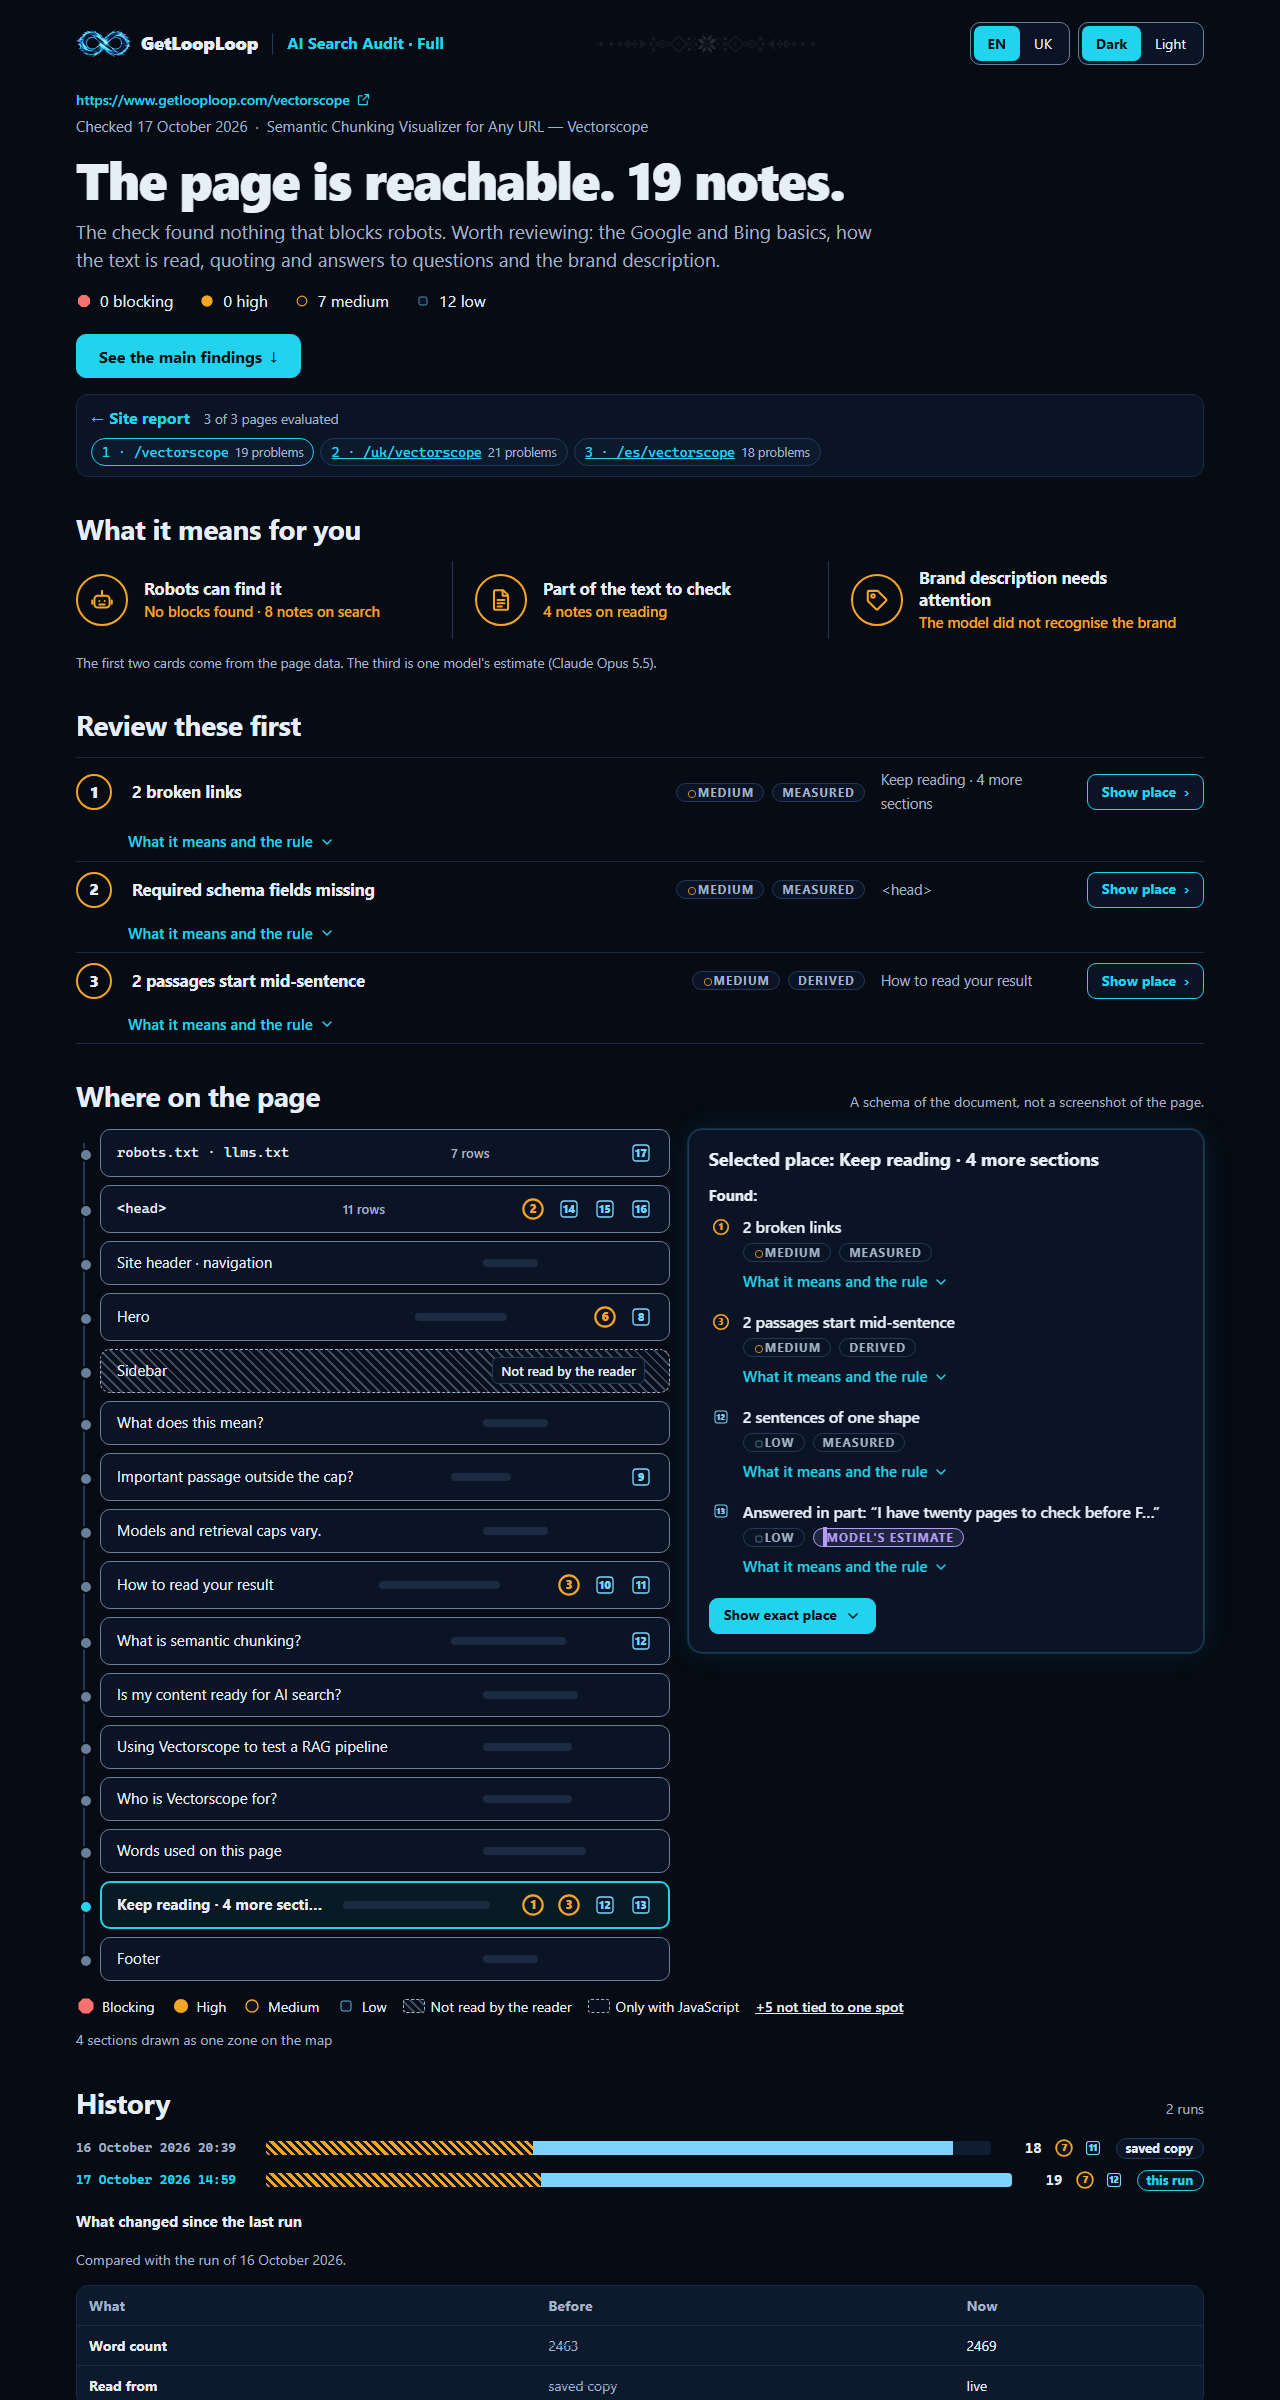
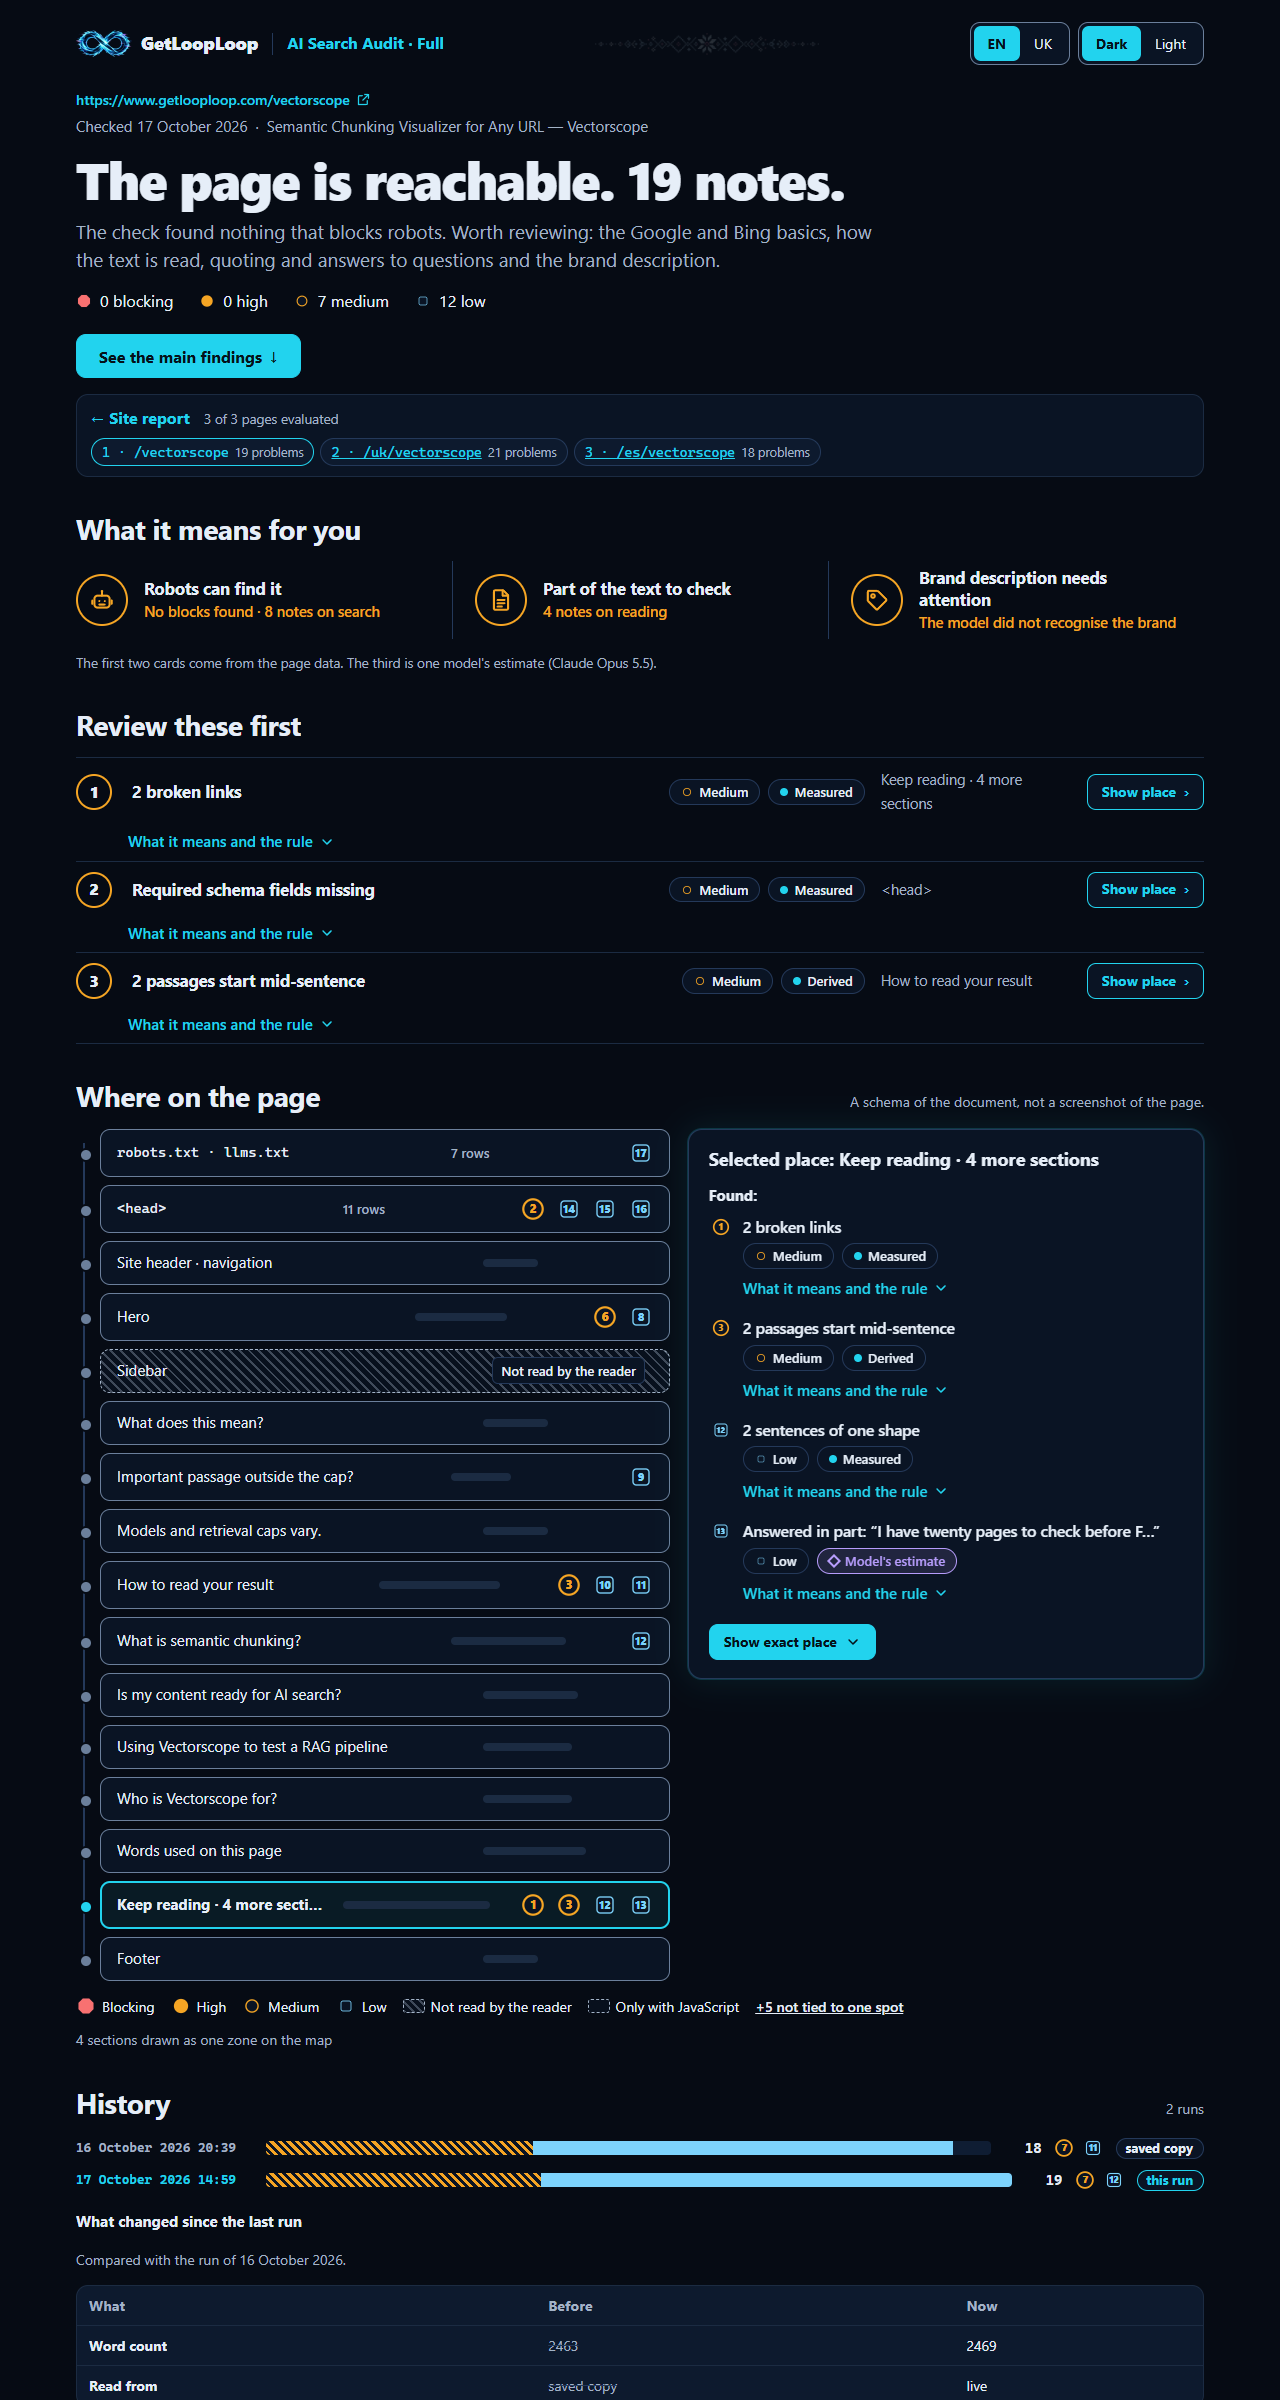
fix: Full uses the Lite pills
Four leftover .pill rules in cssFull.mjs overrode the Lite pills: uppercase labels, and a stray bar where the Model's estimate diamond belongs. Examples and screenshots re-rendered.

diff --git a/examples/compare/vectorscope-compare.html b/examples/compare/vectorscope-compare.html
@@ -451,10 +451,6 @@ summary.tr-m::-webkit-details-marker{display:none}
 .small{font-size:14px;color:var(--muted)}
 .subhead{font-size:15px;margin:16px 0 8px;font-weight:700}
 .tile p .more{color:var(--muted)}
-.pill{display:inline-block;font-size:12px;letter-spacing:.08em;text-transform:uppercase;border-radius:999px;padding:1px 9px;border:1px solid var(--line-2);color:var(--muted);white-space:nowrap;font-weight:700}
-.pill.sev-blocking{color:var(--red-ink);border-color:var(--red);background:var(--red)}
-.pill.sev-medium{color:var(--amber);border-color:var(--amber);background:var(--amber-soft)}
-.pill.sev-low{color:var(--pin-low);border-color:var(--pin-low);background:transparent}
 .chips{display:flex;flex-wrap:wrap;gap:6px;align-items:center}
 .chips .lyr{flex-basis:auto;margin:0}
 .chip{display:inline-flex;align-items:center;gap:5px;font-size:13px;border:1px solid var(--line-2);border-radius:999px;padding:1px 10px 1px 8px;color:var(--text);background:var(--panel);white-space:nowrap;text-decoration:none}

diff --git a/examples/getlooploop-site/report/index.html b/examples/getlooploop-site/report/index.html
@@ -451,10 +451,6 @@ summary.tr-m::-webkit-details-marker{display:none}
 .small{font-size:14px;color:var(--muted)}
 .subhead{font-size:15px;margin:16px 0 8px;font-weight:700}
 .tile p .more{color:var(--muted)}
-.pill{display:inline-block;font-size:12px;letter-spacing:.08em;text-transform:uppercase;border-radius:999px;padding:1px 9px;border:1px solid var(--line-2);color:var(--muted);white-space:nowrap;font-weight:700}
-.pill.sev-blocking{color:var(--red-ink);border-color:var(--red);background:var(--red)}
-.pill.sev-medium{color:var(--amber);border-color:var(--amber);background:var(--amber-soft)}
-.pill.sev-low{color:var(--pin-low);border-color:var(--pin-low);background:transparent}
 .chips{display:flex;flex-wrap:wrap;gap:6px;align-items:center}
 .chips .lyr{flex-basis:auto;margin:0}
 .chip{display:inline-flex;align-items:center;gap:5px;font-size:13px;border:1px solid var(--line-2);border-radius:999px;padding:1px 10px 1px 8px;color:var(--text);background:var(--panel);white-space:nowrap;text-decoration:none}

diff --git a/examples/getlooploop-site/report/pages/getlooploop-com-es-vectorscope.html b/examples/getlooploop-site/report/pages/getlooploop-com-es-vectorscope.html
@@ -451,10 +451,6 @@ summary.tr-m::-webkit-details-marker{display:none}
 .small{font-size:14px;color:var(--muted)}
 .subhead{font-size:15px;margin:16px 0 8px;font-weight:700}
 .tile p .more{color:var(--muted)}
-.pill{display:inline-block;font-size:12px;letter-spacing:.08em;text-transform:uppercase;border-radius:999px;padding:1px 9px;border:1px solid var(--line-2);color:var(--muted);white-space:nowrap;font-weight:700}
-.pill.sev-blocking{color:var(--red-ink);border-color:var(--red);background:var(--red)}
-.pill.sev-medium{color:var(--amber);border-color:var(--amber);background:var(--amber-soft)}
-.pill.sev-low{color:var(--pin-low);border-color:var(--pin-low);background:transparent}
 .chips{display:flex;flex-wrap:wrap;gap:6px;align-items:center}
 .chips .lyr{flex-basis:auto;margin:0}
 .chip{display:inline-flex;align-items:center;gap:5px;font-size:13px;border:1px solid var(--line-2);border-radius:999px;padding:1px 10px 1px 8px;color:var(--text);background:var(--panel);white-space:nowrap;text-decoration:none}

diff --git a/examples/getlooploop-site/report/pages/getlooploop-com-uk-vectorscope.html b/examples/getlooploop-site/report/pages/getlooploop-com-uk-vectorscope.html
@@ -451,10 +451,6 @@ summary.tr-m::-webkit-details-marker{display:none}
 .small{font-size:14px;color:var(--muted)}
 .subhead{font-size:15px;margin:16px 0 8px;font-weight:700}
 .tile p .more{color:var(--muted)}
-.pill{display:inline-block;font-size:12px;letter-spacing:.08em;text-transform:uppercase;border-radius:999px;padding:1px 9px;border:1px solid var(--line-2);color:var(--muted);white-space:nowrap;font-weight:700}
-.pill.sev-blocking{color:var(--red-ink);border-color:var(--red);background:var(--red)}
-.pill.sev-medium{color:var(--amber);border-color:var(--amber);background:var(--amber-soft)}
-.pill.sev-low{color:var(--pin-low);border-color:var(--pin-low);background:transparent}
 .chips{display:flex;flex-wrap:wrap;gap:6px;align-items:center}
 .chips .lyr{flex-basis:auto;margin:0}
 .chip{display:inline-flex;align-items:center;gap:5px;font-size:13px;border:1px solid var(--line-2);border-radius:999px;padding:1px 10px 1px 8px;color:var(--text);background:var(--panel);white-space:nowrap;text-decoration:none}

diff --git a/examples/getlooploop-site/report/pages/getlooploop-com-vectorscope.html b/examples/getlooploop-site/report/pages/getlooploop-com-vectorscope.html
@@ -451,10 +451,6 @@ summary.tr-m::-webkit-details-marker{display:none}
 .small{font-size:14px;color:var(--muted)}
 .subhead{font-size:15px;margin:16px 0 8px;font-weight:700}
 .tile p .more{color:var(--muted)}
-.pill{display:inline-block;font-size:12px;letter-spacing:.08em;text-transform:uppercase;border-radius:999px;padding:1px 9px;border:1px solid var(--line-2);color:var(--muted);white-space:nowrap;font-weight:700}
-.pill.sev-blocking{color:var(--red-ink);border-color:var(--red);background:var(--red)}
-.pill.sev-medium{color:var(--amber);border-color:var(--amber);background:var(--amber-soft)}
-.pill.sev-low{color:var(--pin-low);border-color:var(--pin-low);background:transparent}
 .chips{display:flex;flex-wrap:wrap;gap:6px;align-items:center}
 .chips .lyr{flex-basis:auto;margin:0}
 .chip{display:inline-flex;align-items:center;gap:5px;font-size:13px;border:1px solid var(--line-2);border-radius:999px;padding:1px 10px 1px 8px;color:var(--text);background:var(--panel);white-space:nowrap;text-decoration:none}
